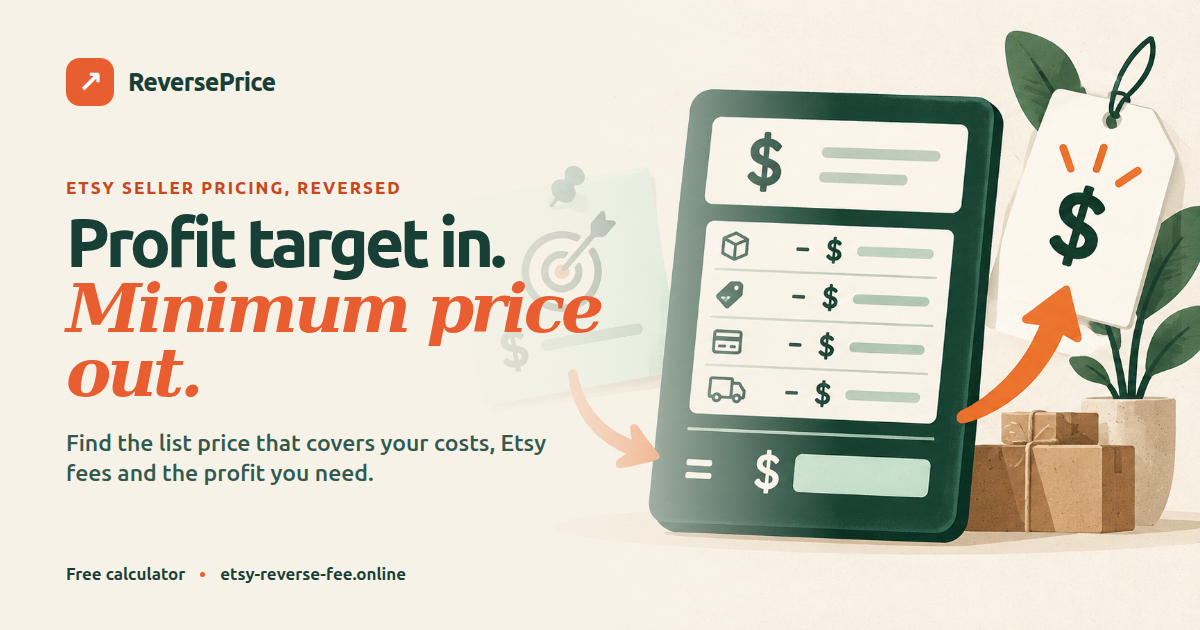
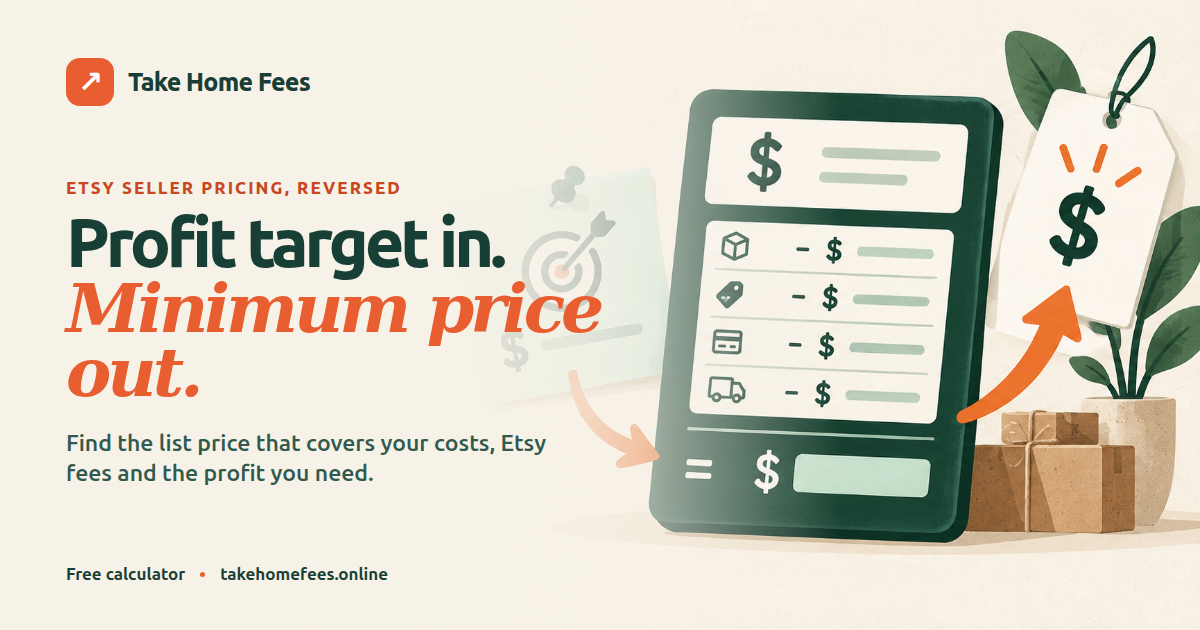
feat: rebrand as Take Home Fees

Changed region(s): [[0.0925, 0.1206, 0.2775, 0.1508], [0.185, 0.9048, 0.3392, 0.9349]]

diff --git a/terms/index.html b/terms/index.html
@@ -1,1 +1,1 @@
-<!doctype html><html lang="en-GB"><head><meta charset="utf-8"><meta name="viewport" content="width=device-width,initial-scale=1"><title>Terms of Service | Etsy Reverse Fee Calculator</title><meta name="description" content="Terms for the Etsy Reverse Fee Calculator and CSV Pro."><link rel="canonical" href="https://etsy-reverse-fee.online/terms/"><link rel="stylesheet" href="/legal.css"><script src="/analytics.js" defer></script></head><body><header class="legal-header"><a href="/"><strong>ReversePrice</strong></a><nav><a href="/terms/">Terms</a><a href="/privacy/">Privacy</a></nav></header><main class="legal-main"><h1>Terms of Service</h1><p class="meta">Effective 21 September 2026</p><p>These terms govern your use of the Etsy Reverse Fee Calculator (“the Service”), operated by Mizzen Studios. By using the Service you agree to these terms. If you do not agree, do not use it.</p><h2>1. What the Service does</h2><p>The Service estimates a list price from the profit, costs, shipping and fee assumptions you enter. CSV Pro applies the same calculation to a local CSV file. The Service is independent and is not affiliated with or endorsed by Etsy, Inc.</p><h2>2. Accounts and device storage</h2><p>No account is required. Settings and a verified Pro checkout reference may be stored in your browser. Clearing browser data or changing device can remove local state. You are responsible for retaining your own source files and results.</p><h2>3. Fees, payments and Pro access</h2><p>The single-listing calculator is free. CSV Pro is a one-time £4 purchase unless a different price is shown before checkout. Stripe processes the payment; Mizzen Studios does not receive full card details. Pro access is granted only after the payment is verified. Prices include applicable consumer taxes where stated at checkout.</p><h2>4. Cancellations and refunds</h2><p>You may leave checkout before payment without charge. If digital functionality is supplied immediately at your request, statutory cancellation rights may be affected. Nothing here limits rights that cannot lawfully be excluded. For billing or refund questions contact <a class="contact-link" href="mailto:support@json-translate.com">support@json-translate.com</a>.</p><h2>5. Accuracy and professional advice</h2><p>Outputs are estimates based on the values and fee settings supplied. Etsy, tax, currency-conversion and payment rules can change or vary by account, location and transaction. Check the current Etsy policies and your payment account before relying on a result. The Service is not accounting, tax, legal or financial advice.</p><h2>6. Acceptable use</h2><p>You may use the Service for lawful personal or business pricing. You must not interfere with its operation, bypass payment or entitlement checks, introduce malicious code, scrape it abusively, or use it to violate another person’s rights.</p><h2>7. Intellectual property</h2><p>Mizzen Studios and its licensors retain rights in the Service, branding and original content. You retain rights in data you enter and files you process. Subject to these terms, you receive a limited, non-exclusive right to use the Service.</p><h2>8. Availability and changes</h2><p>We may maintain, change, suspend or discontinue parts of the Service. We do not promise uninterrupted or error-free availability. Material changes to these terms will be posted here with a revised effective date.</p><h2>9. Liability</h2><p>To the fullest extent permitted by law, Mizzen Studios is not liable for indirect or consequential loss, lost profit, loss of data, or pricing decisions made using estimates. Our total liability relating to paid CSV Pro is limited to the amount you paid for it. These limits do not apply where liability cannot legally be limited, including fraud or death or personal injury caused by negligence.</p><h2>10. Governing law</h2><p>These terms are governed by the laws of England and Wales. Consumers retain any mandatory protections and rights to bring claims in their home jurisdiction.</p><h2>11. Contact</h2><p>Operator: Mizzen Studios. Email: <a class="contact-link" href="mailto:support@json-translate.com">support@json-translate.com</a>.</p></main><footer class="legal-footer"><span>© Mizzen Studios</span><a href="/">Calculator</a><button id="analytics-settings" type="button">Analytics settings</button><a href="/terms/">Terms</a><a href="/privacy/">Privacy</a></footer></body></html>
+<!doctype html><html lang="en-GB"><head><meta charset="utf-8"><meta name="viewport" content="width=device-width,initial-scale=1"><title>Terms of Service | Take Home Fees</title><meta name="description" content="Terms for the Take Home Fees and CSV Pro."><link rel="canonical" href="https://takehomefees.online/terms/"><link rel="stylesheet" href="/legal.css"><script src="/analytics.js" defer></script></head><body><header class="legal-header"><a href="/"><strong>Take Home Fees</strong></a><nav><a href="/terms/">Terms</a><a href="/privacy/">Privacy</a></nav></header><main class="legal-main"><h1>Terms of Service</h1><p class="meta">Effective 21 September 2026</p><p>These terms govern your use of the Take Home Fees (“the Service”), operated by Mizzen Studios. By using the Service you agree to these terms. If you do not agree, do not use it.</p><h2>1. What the Service does</h2><p>The Service estimates a list price from the profit, costs, shipping and fee assumptions you enter. CSV Pro applies the same calculation to a local CSV file. The Service is independent and is not affiliated with or endorsed by Etsy, Inc.</p><h2>2. Accounts and device storage</h2><p>No account is required. Settings and a verified Pro checkout reference may be stored in your browser. Clearing browser data or changing device can remove local state. You are responsible for retaining your own source files and results.</p><h2>3. Fees, payments and Pro access</h2><p>The single-listing calculator is free. CSV Pro is a one-time £4 purchase unless a different price is shown before checkout. Stripe processes the payment; Mizzen Studios does not receive full card details. Pro access is granted only after the payment is verified. Prices include applicable consumer taxes where stated at checkout.</p><h2>4. Cancellations and refunds</h2><p>You may leave checkout before payment without charge. If digital functionality is supplied immediately at your request, statutory cancellation rights may be affected. Nothing here limits rights that cannot lawfully be excluded. For billing or refund questions contact <a class="contact-link" href="mailto:support@json-translate.com">support@json-translate.com</a>.</p><h2>5. Accuracy and professional advice</h2><p>Outputs are estimates based on the values and fee settings supplied. Etsy, tax, currency-conversion and payment rules can change or vary by account, location and transaction. Check the current Etsy policies and your payment account before relying on a result. The Service is not accounting, tax, legal or financial advice.</p><h2>6. Acceptable use</h2><p>You may use the Service for lawful personal or business pricing. You must not interfere with its operation, bypass payment or entitlement checks, introduce malicious code, scrape it abusively, or use it to violate another person’s rights.</p><h2>7. Intellectual property</h2><p>Mizzen Studios and its licensors retain rights in the Service, branding and original content. You retain rights in data you enter and files you process. Subject to these terms, you receive a limited, non-exclusive right to use the Service.</p><h2>8. Availability and changes</h2><p>We may maintain, change, suspend or discontinue parts of the Service. We do not promise uninterrupted or error-free availability. Material changes to these terms will be posted here with a revised effective date.</p><h2>9. Liability</h2><p>To the fullest extent permitted by law, Mizzen Studios is not liable for indirect or consequential loss, lost profit, loss of data, or pricing decisions made using estimates. Our total liability relating to paid CSV Pro is limited to the amount you paid for it. These limits do not apply where liability cannot legally be limited, including fraud or death or personal injury caused by negligence.</p><h2>10. Governing law</h2><p>These terms are governed by the laws of England and Wales. Consumers retain any mandatory protections and rights to bring claims in their home jurisdiction.</p><h2>11. Contact</h2><p>Operator: Mizzen Studios. Email: <a class="contact-link" href="mailto:support@json-translate.com">support@json-translate.com</a>.</p></main><footer class="legal-footer"><span>© Mizzen Studios</span><a href="/">Calculator</a><button id="analytics-settings" type="button">Analytics settings</button><a href="/terms/">Terms</a><a href="/privacy/">Privacy</a></footer></body></html>

diff --git a/privacy/index.html b/privacy/index.html
@@ -1,1 +1,1 @@
-<!doctype html><html lang="en-GB"><head><meta charset="utf-8"><meta name="viewport" content="width=device-width,initial-scale=1"><title>Privacy Policy | Etsy Reverse Fee Calculator</title><meta name="description" content="Privacy information for the Etsy Reverse Fee Calculator and CSV Pro."><link rel="canonical" href="https://etsy-reverse-fee.online/privacy/"><link rel="stylesheet" href="/legal.css"><script src="/analytics.js" defer></script></head><body><header class="legal-header"><a href="/"><strong>ReversePrice</strong></a><nav><a href="/terms/">Terms</a><a href="/privacy/">Privacy</a></nav></header><main class="legal-main"><h1>Privacy Policy</h1><p class="meta">Effective 21 September 2026</p><p>Mizzen Studios operates the Etsy Reverse Fee Calculator and is the controller for personal data described here. Contact us at <a class="contact-link" href="mailto:support@json-translate.com">support@json-translate.com</a>.</p><h2>What stays on your device</h2><p>Calculator inputs and results are processed in your browser. CSV files never leave your device: parsing, reverse pricing, margin audits and result generation happen locally. We do not create user accounts. Your browser may use localStorage to remember analytics consent and a Stripe Checkout session reference used to restore CSV Pro on that browser.</p><h2>Payments and Pro</h2><p>When you choose CSV Pro, our billing service creates a Stripe Checkout session. Stripe receives payment and billing information under its own privacy notice. We receive limited transaction information such as session ID, payment status, amount, currency and product entitlement. We use it to perform the purchase contract, prevent fraud, support customers and keep required financial records. Full card details are not sent to or stored by Mizzen Studios.</p><h2>Analytics and cookies</h2><p>Google Analytics 4 is loaded only if you choose “Allow analytics”. It may use cookies or similar identifiers and receive device/browser information, approximate location derived from IP address, pages viewed and interaction events. Calculator values, CSV contents and Stripe session IDs are excluded. Google Signals and advertising personalisation are disabled. If you decline, analytics is not loaded. You can change your choice using “Analytics settings” in the footer.</p><h2>Server logs</h2><p>Hosting and billing providers may process IP address, request time, browser information and security logs to deliver and protect the Service. Logs are retained only as needed for security, troubleshooting and legal obligations.</p><h2>Sharing and international transfers</h2><p>We use service providers including Firebase/Google Cloud for hosting and billing infrastructure, Stripe for payments, and Google Analytics when consented. They process data for those purposes under their terms. Some processing may occur outside the UK; providers use recognised safeguards such as adequacy regulations or approved contractual clauses where required. We do not sell personal data.</p><h2>Retention</h2><p>Local data remains until you clear site data. Payment and accounting records may be retained for up to seven years where required. Analytics retention follows the configured GA4 property settings. Security logs are kept for a limited operational period unless needed to investigate abuse.</p><h2>Your rights</h2><p>Depending on your location, you may ask for access, correction, deletion, restriction, portability or objection, and may withdraw analytics consent at any time. Use <a class="contact-link" href="mailto:support@json-translate.com">support@json-translate.com</a> to exercise a right. You may also complain to the UK Information Commissioner’s Office or your local regulator.</p><h2>Security, children and changes</h2><p>We use reasonable technical and organisational safeguards, but no online service is risk-free. The Service is intended for business users and is not directed to children. We may update this policy; the effective date above shows the latest version.</p></main><footer class="legal-footer"><span>© Mizzen Studios</span><a href="/">Calculator</a><button id="analytics-settings" type="button">Analytics settings</button><a href="/terms/">Terms</a><a href="/privacy/">Privacy</a></footer></body></html>
+<!doctype html><html lang="en-GB"><head><meta charset="utf-8"><meta name="viewport" content="width=device-width,initial-scale=1"><title>Privacy Policy | Take Home Fees</title><meta name="description" content="Privacy information for the Take Home Fees and CSV Pro."><link rel="canonical" href="https://takehomefees.online/privacy/"><link rel="stylesheet" href="/legal.css"><script src="/analytics.js" defer></script></head><body><header class="legal-header"><a href="/"><strong>Take Home Fees</strong></a><nav><a href="/terms/">Terms</a><a href="/privacy/">Privacy</a></nav></header><main class="legal-main"><h1>Privacy Policy</h1><p class="meta">Effective 21 September 2026</p><p>Mizzen Studios operates the Take Home Fees and is the controller for personal data described here. Contact us at <a class="contact-link" href="mailto:support@json-translate.com">support@json-translate.com</a>.</p><h2>What stays on your device</h2><p>Calculator inputs and results are processed in your browser. CSV files never leave your device: parsing, reverse pricing, margin audits and result generation happen locally. We do not create user accounts. Your browser may use localStorage to remember analytics consent and a Stripe Checkout session reference used to restore CSV Pro on that browser.</p><h2>Payments and Pro</h2><p>When you choose CSV Pro, our billing service creates a Stripe Checkout session. Stripe receives payment and billing information under its own privacy notice. We receive limited transaction information such as session ID, payment status, amount, currency and product entitlement. We use it to perform the purchase contract, prevent fraud, support customers and keep required financial records. Full card details are not sent to or stored by Mizzen Studios.</p><h2>Analytics and cookies</h2><p>Google Analytics 4 is loaded only if you choose “Allow analytics”. It may use cookies or similar identifiers and receive device/browser information, approximate location derived from IP address, pages viewed and interaction events. Calculator values, CSV contents and Stripe session IDs are excluded. Google Signals and advertising personalisation are disabled. If you decline, analytics is not loaded. You can change your choice using “Analytics settings” in the footer.</p><h2>Server logs</h2><p>Hosting and billing providers may process IP address, request time, browser information and security logs to deliver and protect the Service. Logs are retained only as needed for security, troubleshooting and legal obligations.</p><h2>Sharing and international transfers</h2><p>We use service providers including Firebase/Google Cloud for hosting and billing infrastructure, Stripe for payments, and Google Analytics when consented. They process data for those purposes under their terms. Some processing may occur outside the UK; providers use recognised safeguards such as adequacy regulations or approved contractual clauses where required. We do not sell personal data.</p><h2>Retention</h2><p>Local data remains until you clear site data. Payment and accounting records may be retained for up to seven years where required. Analytics retention follows the configured GA4 property settings. Security logs are kept for a limited operational period unless needed to investigate abuse.</p><h2>Your rights</h2><p>Depending on your location, you may ask for access, correction, deletion, restriction, portability or objection, and may withdraw analytics consent at any time. Use <a class="contact-link" href="mailto:support@json-translate.com">support@json-translate.com</a> to exercise a right. You may also complain to the UK Information Commissioner’s Office or your local regulator.</p><h2>Security, children and changes</h2><p>We use reasonable technical and organisational safeguards, but no online service is risk-free. The Service is intended for business users and is not directed to children. We may update this policy; the effective date above shows the latest version.</p></main><footer class="legal-footer"><span>© Mizzen Studios</span><a href="/">Calculator</a><button id="analytics-settings" type="button">Analytics settings</button><a href="/terms/">Terms</a><a href="/privacy/">Privacy</a></footer></body></html>

diff --git a/index.html b/index.html
@@ -3,24 +3,24 @@
   <head>
     <meta charset="UTF-8">
     <meta name="viewport" content="width=device-width, initial-scale=1.0">
-    <title>Etsy Reverse Fee Calculator — Profit to List Price</title>
-    <meta name="description" content="Start with the profit you want. Calculate the minimum Etsy list price after product costs, shipping, Etsy fees and Offsite Ads.">
-    <link rel="canonical" href="https://etsy-reverse-fee.online/">
-    <meta property="og:title" content="Etsy Reverse Fee Calculator">
-    <meta property="og:description" content="Desired profit in. Minimum list price out — with a clear Etsy fee breakdown.">
+    <title>Take Home Fees — Etsy Profit &amp; Fee Calculator</title>
+    <meta name="description" content="Take Home Fees works backwards from your target profit to the minimum Etsy list price after product costs, shipping, seller fees and Offsite Ads.">
+    <link rel="canonical" href="https://takehomefees.online/">
+    <meta property="og:title" content="Take Home Fees — Etsy Profit Calculator">
+    <meta property="og:description" content="Start with the profit you need and calculate the minimum Etsy list price, with every seller fee shown.">
     <meta property="og:type" content="website">
-    <meta property="og:url" content="https://etsy-reverse-fee.online/">
-    <meta property="og:site_name" content="ReversePrice">
-    <meta property="og:image" content="https://etsy-reverse-fee.online/social-card.png">
+    <meta property="og:url" content="https://takehomefees.online/">
+    <meta property="og:site_name" content="Take Home Fees">
+    <meta property="og:image" content="https://takehomefees.online/social-card.png">
     <meta property="og:image:type" content="image/png">
     <meta property="og:image:width" content="1200">
     <meta property="og:image:height" content="630">
-    <meta property="og:image:alt" content="ReversePrice Etsy reverse fee calculator showing profit-first pricing.">
+    <meta property="og:image:alt" content="Take Home Fees Etsy profit calculator showing profit-first pricing.">
     <meta name="twitter:card" content="summary_large_image">
-    <meta name="twitter:title" content="Etsy Reverse Fee Calculator">
-    <meta name="twitter:description" content="Desired profit in. Minimum list price out — with a clear Etsy fee breakdown.">
-    <meta name="twitter:image" content="https://etsy-reverse-fee.online/social-card.png">
-    <meta name="twitter:image:alt" content="ReversePrice Etsy reverse fee calculator showing profit-first pricing.">
+    <meta name="twitter:title" content="Take Home Fees — Etsy Profit Calculator">
+    <meta name="twitter:description" content="Start with the profit you need and calculate the minimum Etsy list price, with every seller fee shown.">
+    <meta name="twitter:image" content="https://takehomefees.online/social-card.png">
+    <meta name="twitter:image:alt" content="Take Home Fees Etsy profit calculator showing profit-first pricing.">
     <meta name="theme-color" content="#173f35">
     <link rel="icon" href="/favicon.svg" type="image/svg+xml">
     <link rel="stylesheet" href="./styles.css">
@@ -30,10 +30,10 @@
       {
         "@context": "https://schema.org",
         "@type": "WebApplication",
-        "name": "Etsy Reverse Fee Calculator",
+        "name": "Take Home Fees",
         "applicationCategory": "BusinessApplication",
         "operatingSystem": "Any",
-        "url": "https://etsy-reverse-fee.online/",
+        "url": "https://takehomefees.online/",
         "offers": [
           { "@type": "Offer", "name": "Single-listing calculator", "price": "0", "priceCurrency": "GBP" },
           { "@type": "Offer", "name": "CSV Pro lifetime unlock", "price": "4", "priceCurrency": "GBP" }
@@ -45,9 +45,9 @@
   <body>
     <a class="skip-link" href="#calculator">Skip to calculator</a>
     <header class="site-header">
-      <a class="brand" href="#top" aria-label="ReversePrice home">
+      <a class="brand" href="#top" aria-label="Take Home Fees home">
         <span class="brand-mark" aria-hidden="true">↗</span>
-        <span>ReversePrice</span>
+        <span>Take Home Fees</span>
       </a>
       <nav aria-label="Main navigation">
         <a href="#how-it-works">How it works</a>
@@ -60,7 +60,7 @@
       <section class="hero" aria-labelledby="hero-title">
         <div class="hero-copy">
           <p class="eyebrow"><span></span> Built for Etsy sellers who price for profit</p>
-          <h1 id="hero-title">Your profit target.<br><em>Your minimum price.</em></h1>
+          <h1 id="hero-title">Take-home profit first.<br><em>Your minimum Etsy price.</em></h1>
           <p class="hero-lede">Most fee calculators start with a price. This one starts with what you actually need to earn — then works backwards through every fee.</p>
           <div class="trust-row" aria-label="Product highlights">
             <span>✓ No sign-up</span>
@@ -259,7 +259,7 @@
     </main>
 
     <footer>
-      <a class="brand" href="#top"><span class="brand-mark" aria-hidden="true">↗</span><span>ReversePrice</span></a>
+      <a class="brand" href="#top"><span class="brand-mark" aria-hidden="true">↗</span><span>Take Home Fees</span></a>
       <p>Independent calculator. Not affiliated with or endorsed by Etsy, Inc.</p>
       <button id="analytics-settings" type="button">Analytics settings</button>
       <a href="/terms/">Terms</a>

diff --git a/test/production.test.js b/test/production.test.js
@@ -11,14 +11,15 @@ test("publishes complete social metadata and consent-gated GA4", async () => {
     readText("../scripts/build.mjs"),
   ]);
 
-  assert.match(html, /property="og:image" content="https:\/\/etsy-reverse-fee\.online\/social-card\.png"/);
+  assert.match(html, /property="og:image" content="https:\/\/takehomefees\.online\/social-card\.png"/);
   assert.match(html, /name="twitter:card" content="summary_large_image"/);
-  assert.match(html, /name="twitter:image" content="https:\/\/etsy-reverse-fee\.online\/social-card\.png"/);
+  assert.match(html, /name="twitter:image" content="https:\/\/takehomefees\.online\/social-card\.png"/);
   assert.match(html, /<script src="\.\/analytics\.js" defer><\/script>/);
   assert.match(html, /<link rel="icon" href="\/favicon\.svg" type="image\/svg\+xml">/);
   assert.match(build, /"analytics\.js"/);
   assert.match(build, /"favicon\.svg"/);
   assert.match(build, /"social-card\.png"/);
+  assert.match(build, /https:\/\/takehomefees\.online\//);
   assert.match(analytics, /G-XECHZYT8G1/);
   assert.match(analytics, /reverseprice\.analytics-consent\.v1/);
   assert.match(analytics, /consent\(\) !== "granted"/);
@@ -59,4 +60,5 @@ test("publishes legal pages, footer links and a pre-purchase CSV sample", async 
   assert.match(server, /statement_descriptor_suffix: "REVERSE FEE"/);
   assert.match(server, /price_1UI33sDBB6JJzhj63kTs5xhg/);
   assert.match(server, /Etsy Reverse Fee — CSV Pro lifetime unlock/);
+  assert.match(server, /const ORIGIN = "https:\/\/takehomefees\.online"/);
 });

diff --git a/analytics.js b/analytics.js
@@ -77,7 +77,7 @@
     const banner = document.createElement("aside");
     banner.dataset.analyticsConsent = "";
     banner.setAttribute("aria-label", "Analytics preferences");
-    banner.innerHTML = '<div><strong>Help improve ReversePrice</strong><span>Allow privacy-friendly Google Analytics so Mizzen Studios can see which pages and features help. Calculator values, CSV contents and Stripe session IDs are never sent.</span></div><div><button type="button" data-consent="denied">No thanks</button><button type="button" data-consent="granted">Allow analytics</button></div>';
+    banner.innerHTML = '<div><strong>Help improve Take Home Fees</strong><span>Allow privacy-friendly Google Analytics so Mizzen Studios can see which pages and features help. Calculator values, CSV contents and Stripe session IDs are never sent.</span></div><div><button type="button" data-consent="denied">No thanks</button><button type="button" data-consent="granted">Allow analytics</button></div>';
     banner.addEventListener("click", (event) => {
       const button = event.target instanceof Element ? event.target.closest("[data-consent]") : null;
       if (button) saveConsent(button.getAttribute("data-consent"));

diff --git a/design/social-card.html b/design/social-card.html
@@ -30,11 +30,11 @@
   </head>
   <body>
     <main>
-      <div class="brand"><span class="mark">↗</span><span>ReversePrice</span></div>
+      <div class="brand"><span class="mark">↗</span><span>Take Home Fees</span></div>
       <p class="eyebrow">Etsy seller pricing, reversed</p>
       <h1>Profit target in.<em>Minimum price out.</em></h1>
       <p class="lede">Find the list price that covers your costs, Etsy fees and the profit you need.</p>
-      <div class="footer"><span>Free calculator</span><span class="dot"></span><span>etsy-reverse-fee.online</span></div>
+      <div class="footer"><span>Free calculator</span><span class="dot"></span><span>takehomefees.online</span></div>
     </main>
   </body>
 </html>

diff --git a/functions/server.js b/functions/server.js
@@ -4,8 +4,14 @@ const Stripe = require("stripe");
 const APP_ID = "mm-etsy-reverse-fee";
 const APPROVED_ACCOUNT_ID = "acct_1RWiEYDBB6JJzhj6";
 const PRICE_ID = "price_1UI33sDBB6JJzhj63kTs5xhg";
-const ORIGIN = "https://etsy-reverse-fee.online";
-const ALLOWED_ORIGINS = new Set([ORIGIN, "https://www.etsy-reverse-fee.online", "https://etsy-reverse-fee.web.app"]);
+const ORIGIN = "https://takehomefees.online";
+const ALLOWED_ORIGINS = new Set([
+  ORIGIN,
+  "https://www.takehomefees.online",
+  "https://etsy-reverse-fee.online",
+  "https://www.etsy-reverse-fee.online",
+  "https://etsy-reverse-fee.web.app",
+]);
 const app = express();
 let verifiedStripe;
 

diff --git a/README.md b/README.md
@@ -1,4 +1,4 @@
-# Etsy Reverse Fee Calculator
+# Take Home Fees
 
 A calculator that works backwards from desired profit to the minimum Etsy list price. It includes product costs, shipping charged versus shipping paid, Offsite Ads and a visible fee breakdown. The £4 CSV Pro unlock batch-prices local files after server-side Stripe entitlement verification.
 
@@ -17,7 +17,8 @@ Then open <http://localhost:4173>.
 Production hosting:
 
 - Firebase/GCP project ID: `etsy-reverse-fee`
-- Canonical URL: <https://etsy-reverse-fee.online/>
+- Canonical URL: <https://takehomefees.online/>
+- Legacy redirect-only URL: <https://etsy-reverse-fee.online/> (301 to the canonical host, preserving the path)
 - Firebase fallback URL: <https://etsy-reverse-fee.web.app/>
 - Build output directory: `dist`
 
